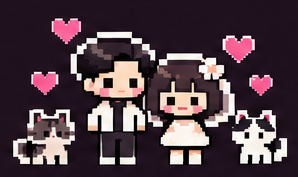
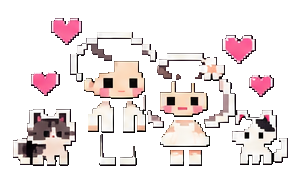
update01

diff --git a/style.css b/style.css
@@ -892,3 +892,12 @@ body.chapter-mode[data-chapter="complete"] #complete {display:flex!important}
   .status-window-body .proposal-stage { flex: 0 0 auto; min-height: 115px; }
   .status-window-body .proposal-frame { max-height: 150px; }
 }
+
+/* CHAPTER 01 — smaller transparent character animation, no label */
+.proposal-stage {gap:0; padding:0; overflow:visible;}
+.proposal-stage-caption {display:none!important;}
+.proposal-frame {width:min(100%,260px); max-height:160px; object-fit:contain;}
+@media(max-width:600px) {
+ .status-window-body .proposal-stage {padding:0;gap:0;}
+ .status-window-body .proposal-frame {width:min(68%,230px);max-height:min(19svh,135px);}
+}

diff --git a/index.html b/index.html
@@ -73,7 +73,6 @@
         <div class="status-footer"><span>JOSEPH × HAEUN</span><a href="#hero">↑ BACK TO TITLE</a></div>
         <div class="proposal-stage" aria-label="요셉과 하은의 프러포즈 픽셀 애니메이션">
           <img id="proposalFrame" class="proposal-frame" src="assets/proposal-1.png" alt="요셉과 하은, 애옹과 애기가 함께하는 프러포즈 이야기" width="330" height="177">
-          <div class="proposal-stage-caption" id="proposalCaption" aria-live="off">♥ OUR LITTLE STORY ♥</div>
         </div>
       </div>
     </div>
